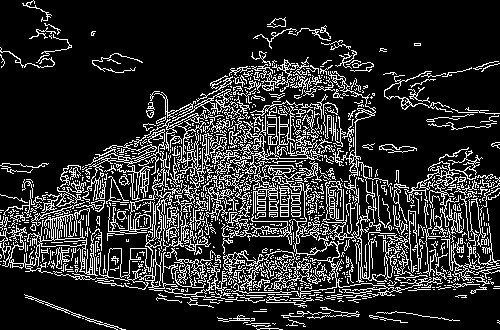
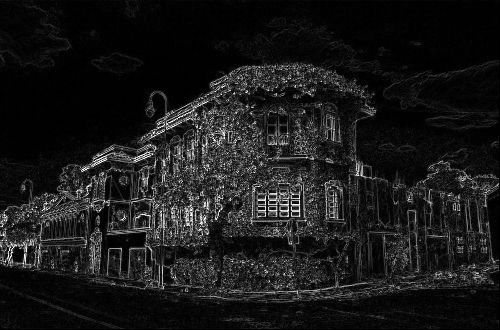
new main.py

diff --git a/main.py b/main.py
@@ -1,0 +1,33 @@
+import os
+import cv2
+import numpy as np
+
+
+def edge_detection(img_path):
+    print(img_path)
+    # img = cv2.imread("edificio_con_arboles.jpg")
+    # img_path = input("Ingrese la ruta de la imagen: ")
+    img = cv2.imread(img_path)
+    # img = cv2.imread("popular.jpg")
+    img_gray = cv2.cvtColor(img, cv2.COLOR_BGR2GRAY)
+
+    # cv2.imwrite("gray.jpg", img_color)
+
+    height, width = img_gray.shape[:2]
+    print(f"height: {height}, width: {width}")
+    new_image = np.zeros((height, width), np.uint8)
+
+    for x in range(width - 1):
+        for y in range(height - 1):
+            derivative_x = abs(int(img_gray[y, x]) - int(img_gray[y, x+1]))
+            new_image[y, x] = derivative_x
+            derivative_y = abs(int(img_gray[y, x]) - int(img_gray[y+1, x]))
+            new_image[y, x] = min((new_image[y, x] + derivative_y), 255)
+
+    cv2.imwrite(f"../bordes/BORDES-{img_path}", new_image)
+    # print(new_image[0, :])
+
+
+os.chdir("./discord-imagenes")
+for img in os.listdir():
+    edge_detection(img)
